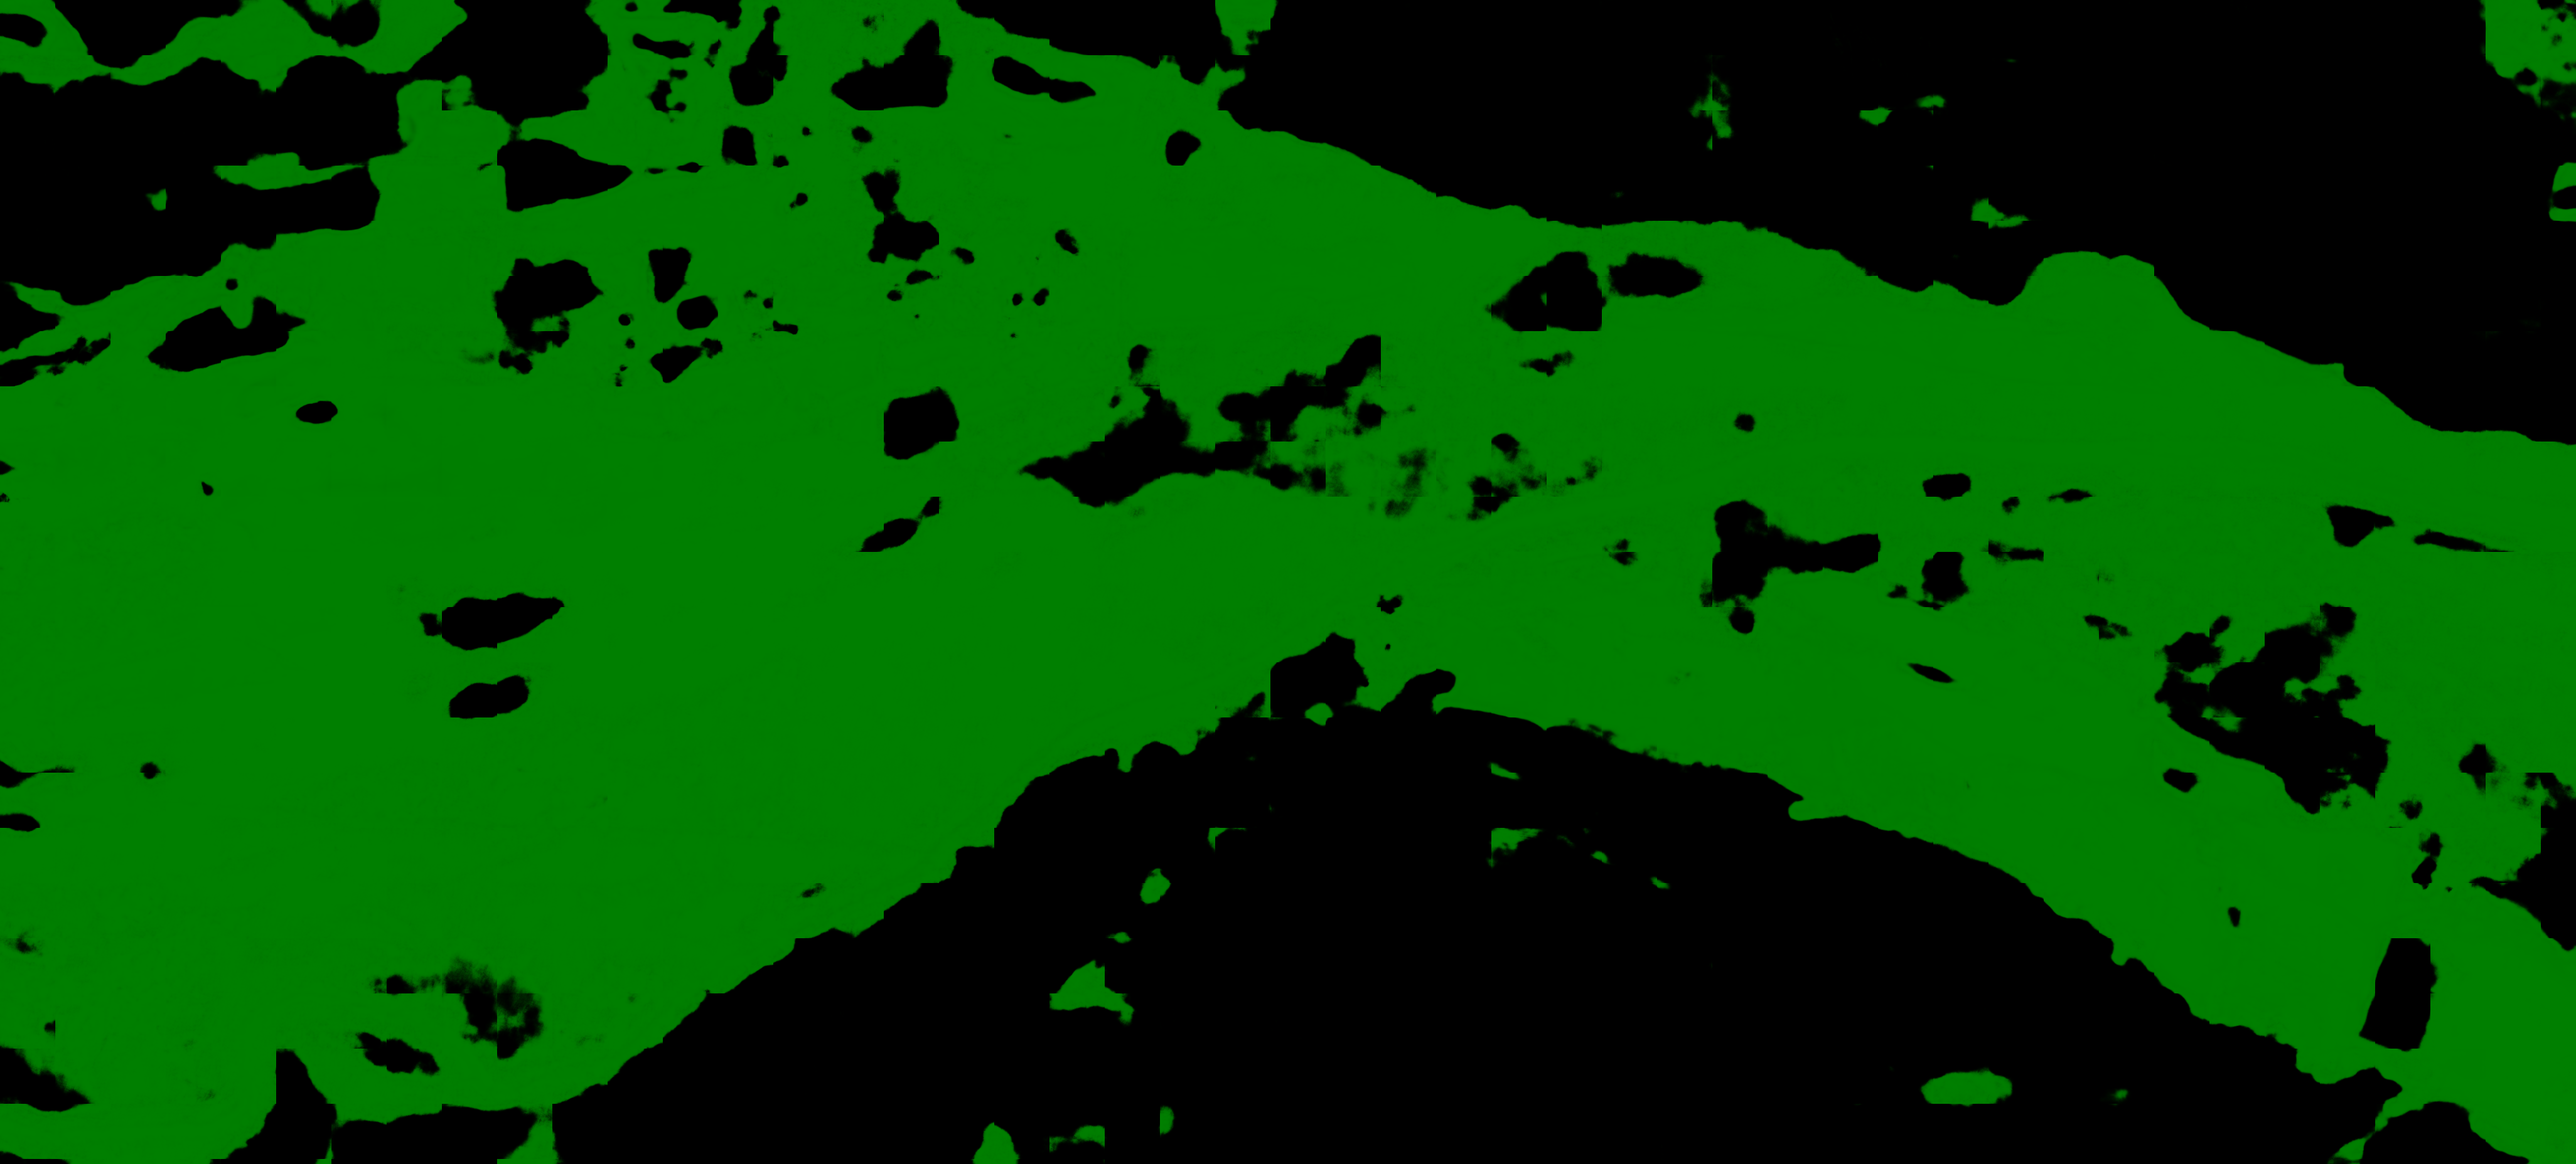
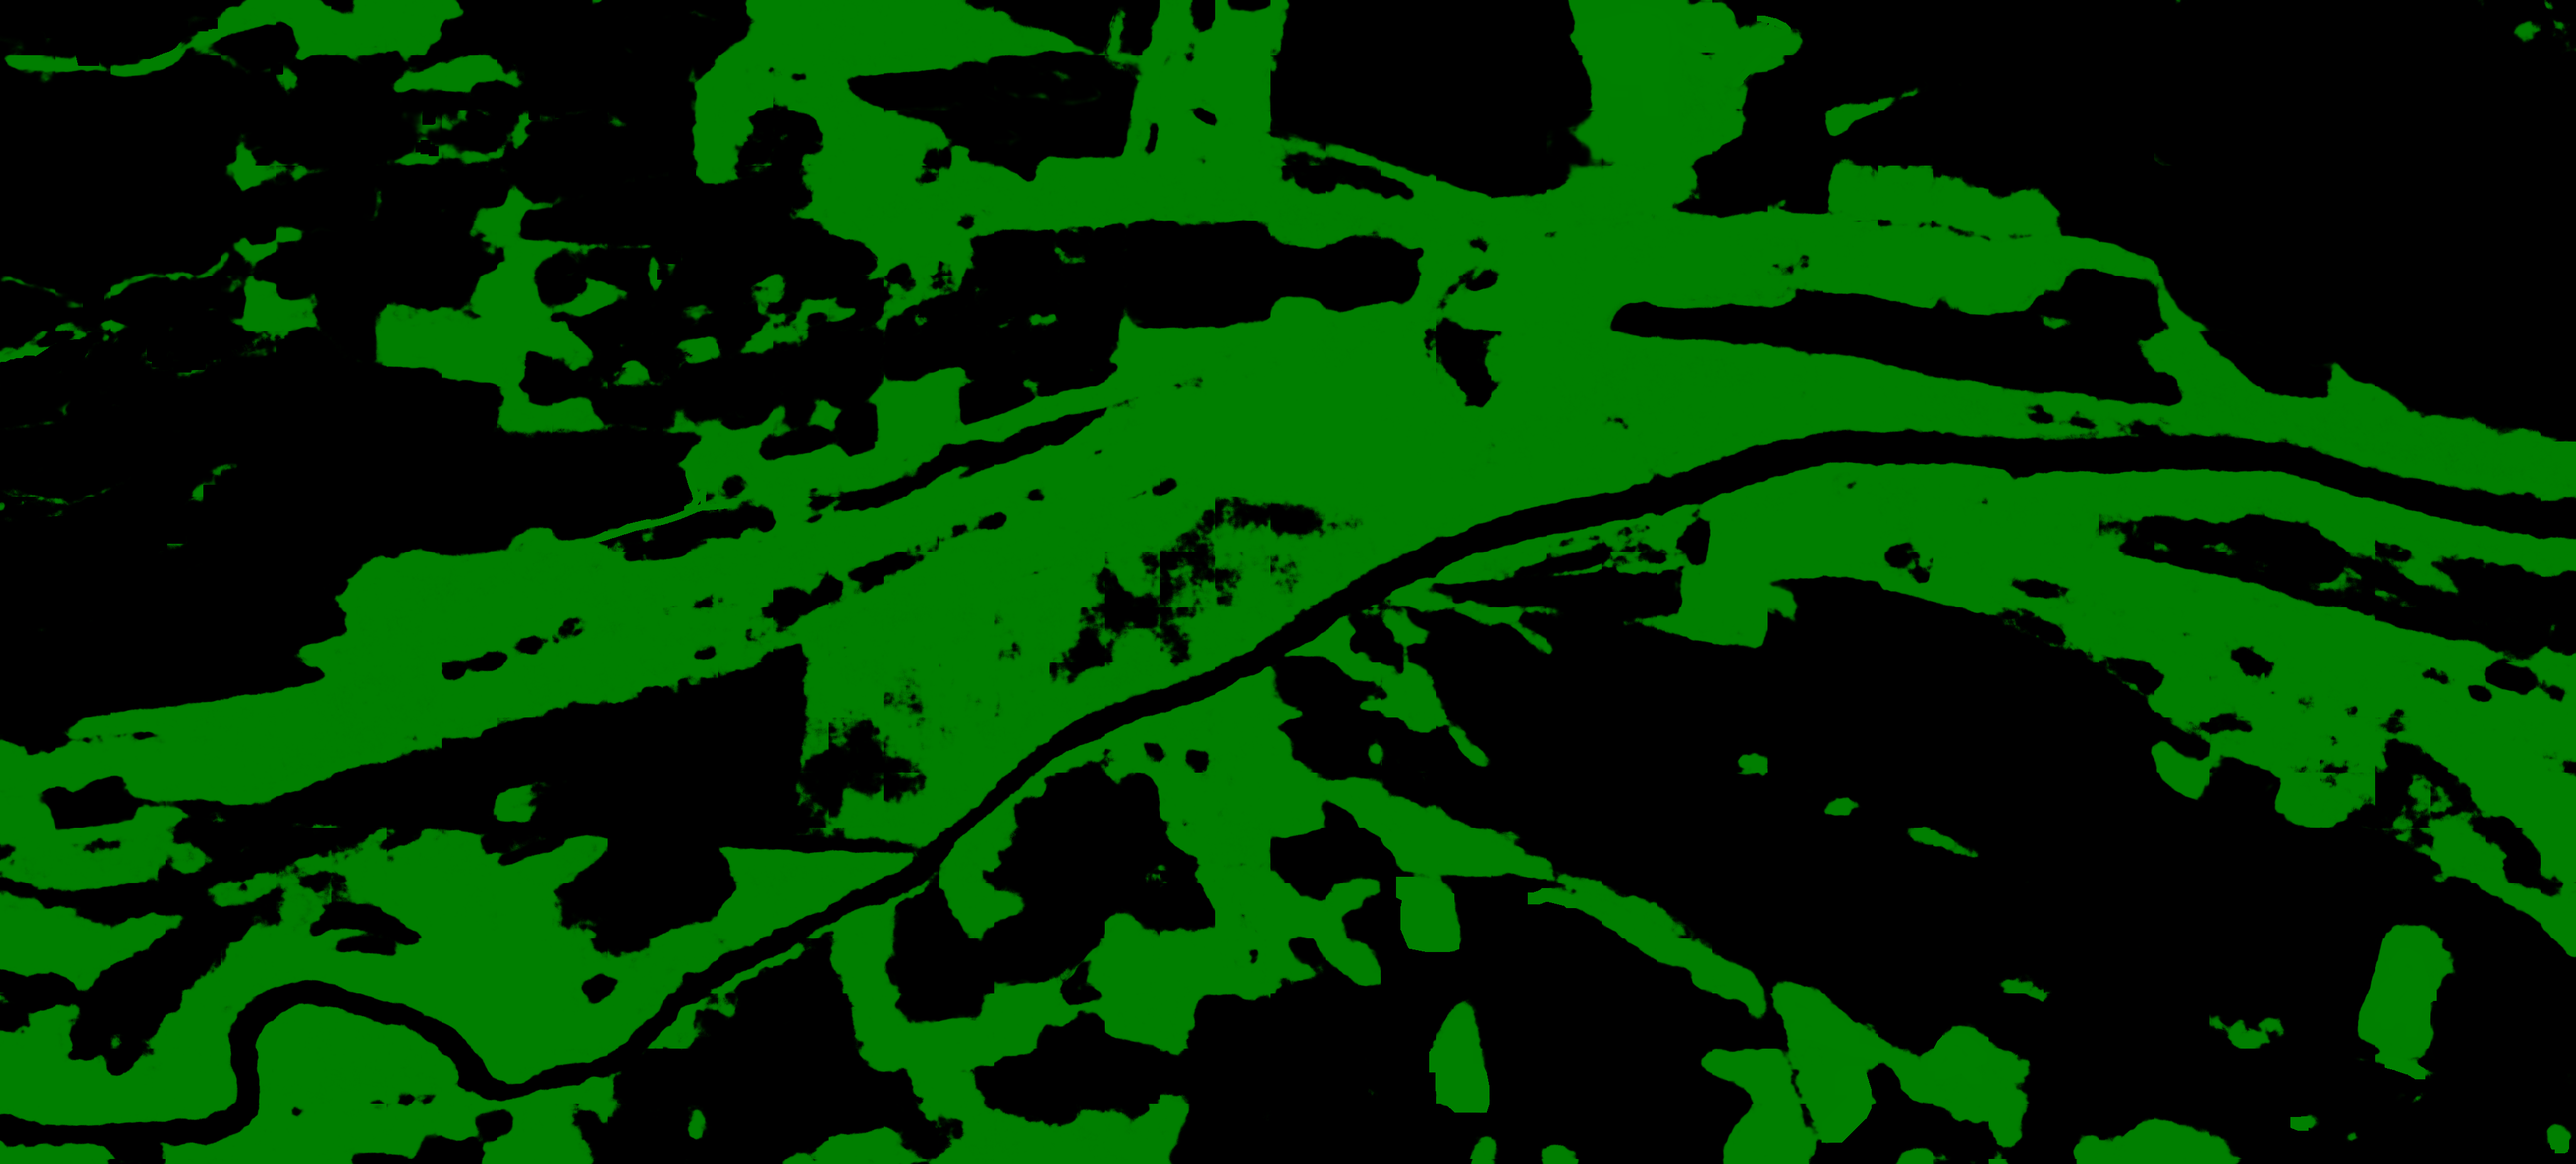
Fix bug on data remaker

diff --git a/public/scripts/data_al/data_remaker_al.py b/public/scripts/data_al/data_remaker_al.py
@@ -109,10 +109,13 @@ def pad_data_augment(unpadded_data, is_feature = False):
 #     print("data_padded: ", data_padded.shape, "\n")
     return data_padded, total_patches_x, total_patches_y
 
-def crop_data_augment(uncropped_data, filename, horizontal_patches, vertial_patches, is_feature = False, is_conf = False, is_forest = False):
+def crop_data_augment(uncropped_data, filename, horizontal_patches, vertical_patches, is_feature = False, is_conf = False, is_forest = False):
 
     # base_path = "./data_al/"
-    output_path = "./cropped_al"
+    # output_path = "./cropped_al"
+
+    output_path = os.path.join(os.getcwd(), "data_al/cropped_al")
+    print(output_path)
     if not os.path.exists(output_path):
         os.mkdir(output_path)
     
@@ -122,7 +125,7 @@ def crop_data_augment(uncropped_data, filename, horizontal_patches, vertial_patc
     print(f"height: {height} width: {width} ")
     print("spatial size: ", SPATIAL_SIZE)
 
-    print("VP: ", vertial_patches)
+    print("VP: ", vertical_patches)
     print("HP: ", horizontal_patches)
     
     cropped_data = []
@@ -130,7 +133,7 @@ def crop_data_augment(uncropped_data, filename, horizontal_patches, vertial_patc
     x_start = 0
     y_start = 0
     
-    for y in range(0, vertial_patches):
+    for y in range(0, vertical_patches):
         for x in range(0, horizontal_patches):
             
             if is_feature:
@@ -259,7 +262,7 @@ def crop_data_al(uncropped_data, filename, is_feature = False, is_conf = False, 
 
             
 def make_data(label_data, region_num):
-    label_file = f"Region_{region_num}_labels.npy"
+    label_file = f"Region_{region_num}_label_forest.npy"
 
     ###########Padd data to fit SPATIAL_SIZE pathches######################################
     padded_label, hor_patches, ver_patches = pad_data_augment(label_data)
@@ -279,10 +282,12 @@ def make_dir(TEST_REGION):
     
         
 def move_files(TEST_REGION):
-    base_path = "./data_al/"
+    # base_path = "./data_al/"
+
+    base_path = os.path.join(os.getcwd(), "data_al/")
     
     for file in tqdm(os.listdir(base_path + "cropped_al")):
-        if not "label" in file:
+        if not "label_forest" in file:
             continue
             
         file_region_num = int(file.split("_")[1])
@@ -299,6 +304,8 @@ def remake_data(label_data, region_num):
     
     ## Pad and crop data
     make_data(label_data, region_num)
+
+    # return
     
     ## Move image crops to directory
     move_files(region_num)

diff --git a/public/scripts/al.py b/public/scripts/al.py
@@ -302,8 +302,8 @@ def ann_to_labels(png_image):
     ann = cv2.imread(png_image)
     ann = cv2.cvtColor(ann, cv2.COLOR_BGR2RGB)
 
-    forest = ann[:, :, 1] == 255
-    not_forest = ann[:, :, 2] == 255
+    forest = ann[:, :, 1] > 0
+    not_forest = ann[:, :, 2] > 0
 
     forest_arr = np.where(forest, 1, 0)
     not_forest_arr = np.where(not_forest, -1, 0)
@@ -345,9 +345,12 @@ def train(TEST_REGION):
     #     exit(0)
 
     updated_labels = ann_to_labels("./R1_labels.png")
+    np.save("R1_updated_labels.npy", updated_labels)
 
     # need to remake labels after getting updated labels
     remake_data(updated_labels, TEST_REGION)
+
+    # return
     
     cropped_data_path_al = f"./data_al/Region_{TEST_REGION}_TEST/cropped_data_val_test_al"
     elev_val_test_dataset_al = get_dataset_al(cropped_data_path_al, config.IN_CHANNEL)
@@ -464,11 +467,11 @@ def train(TEST_REGION):
         file.write(str(resume_epoch))
     
     # call AL pipeline once the model is retrained
-    run_prediction(TEST_REGION)
+    run_prediction(TEST_REGION, updated_labels = updated_labels)
     
     return
 
-def run_prediction(TEST_REGION):
+def run_prediction(TEST_REGION, updated_labels = None):
 
     # return # TODO: remove after test
 
@@ -529,6 +532,13 @@ def run_prediction(TEST_REGION):
     print("pred_unpadded.shape: ", pred_unpadded.shape)
     print(np.max(pred_unpadded))
     pred_forest = pred_unpadded[:,:,1]
+
+    if updated_labels is not None:
+        forest_pixels = np.where(updated_labels == 1)
+        not_forest_pixels = np.where(updated_labels == -1)
+        pred_forest[forest_pixels] = 1
+        pred_forest[not_forest_pixels] = 0
+
     np.save("./R1_pred_np.npy", pred_forest)
 
     pred_forest = pred_forest.astype("float32")

diff --git a/public/scripts/data_al/data_al_evanet.py b/public/scripts/data_al/data_al_evanet.py
@@ -108,6 +108,8 @@ class ElevationDatasetAL(torch.utils.data.Dataset):
         # from frontend: 1: forest, -1: not forest, 0: unknown
         # required: 0: unknown, 1: forest, 2: not forest
         self.formatted_label_data_forest = np.where(self.label_data_forest == -1, 2, self.label_data_forest).astype('int')
+        np.save("./R1_unformatted_labels_forest.npy", self.label_data_forest)
+        np.save("./R1_formatted_labels_forest.npy", self.formatted_label_data_forest)
         
         ## Merge Disaster and regular time RGB
         self.rgb_data = self.disaster_rgb

diff --git a/public/scripts/config.py b/public/scripts/config.py
@@ -8,7 +8,7 @@ EXTRA_PIXELS = 20
 BATCH_SIZE = 4
 IN_CHANNEL = 6
 N_CLASSES = 3
-EPOCHS = 10
+EPOCHS = 1
 NUM_RECOMMEND = 50
 SC_ACQUISITION = 1
 
